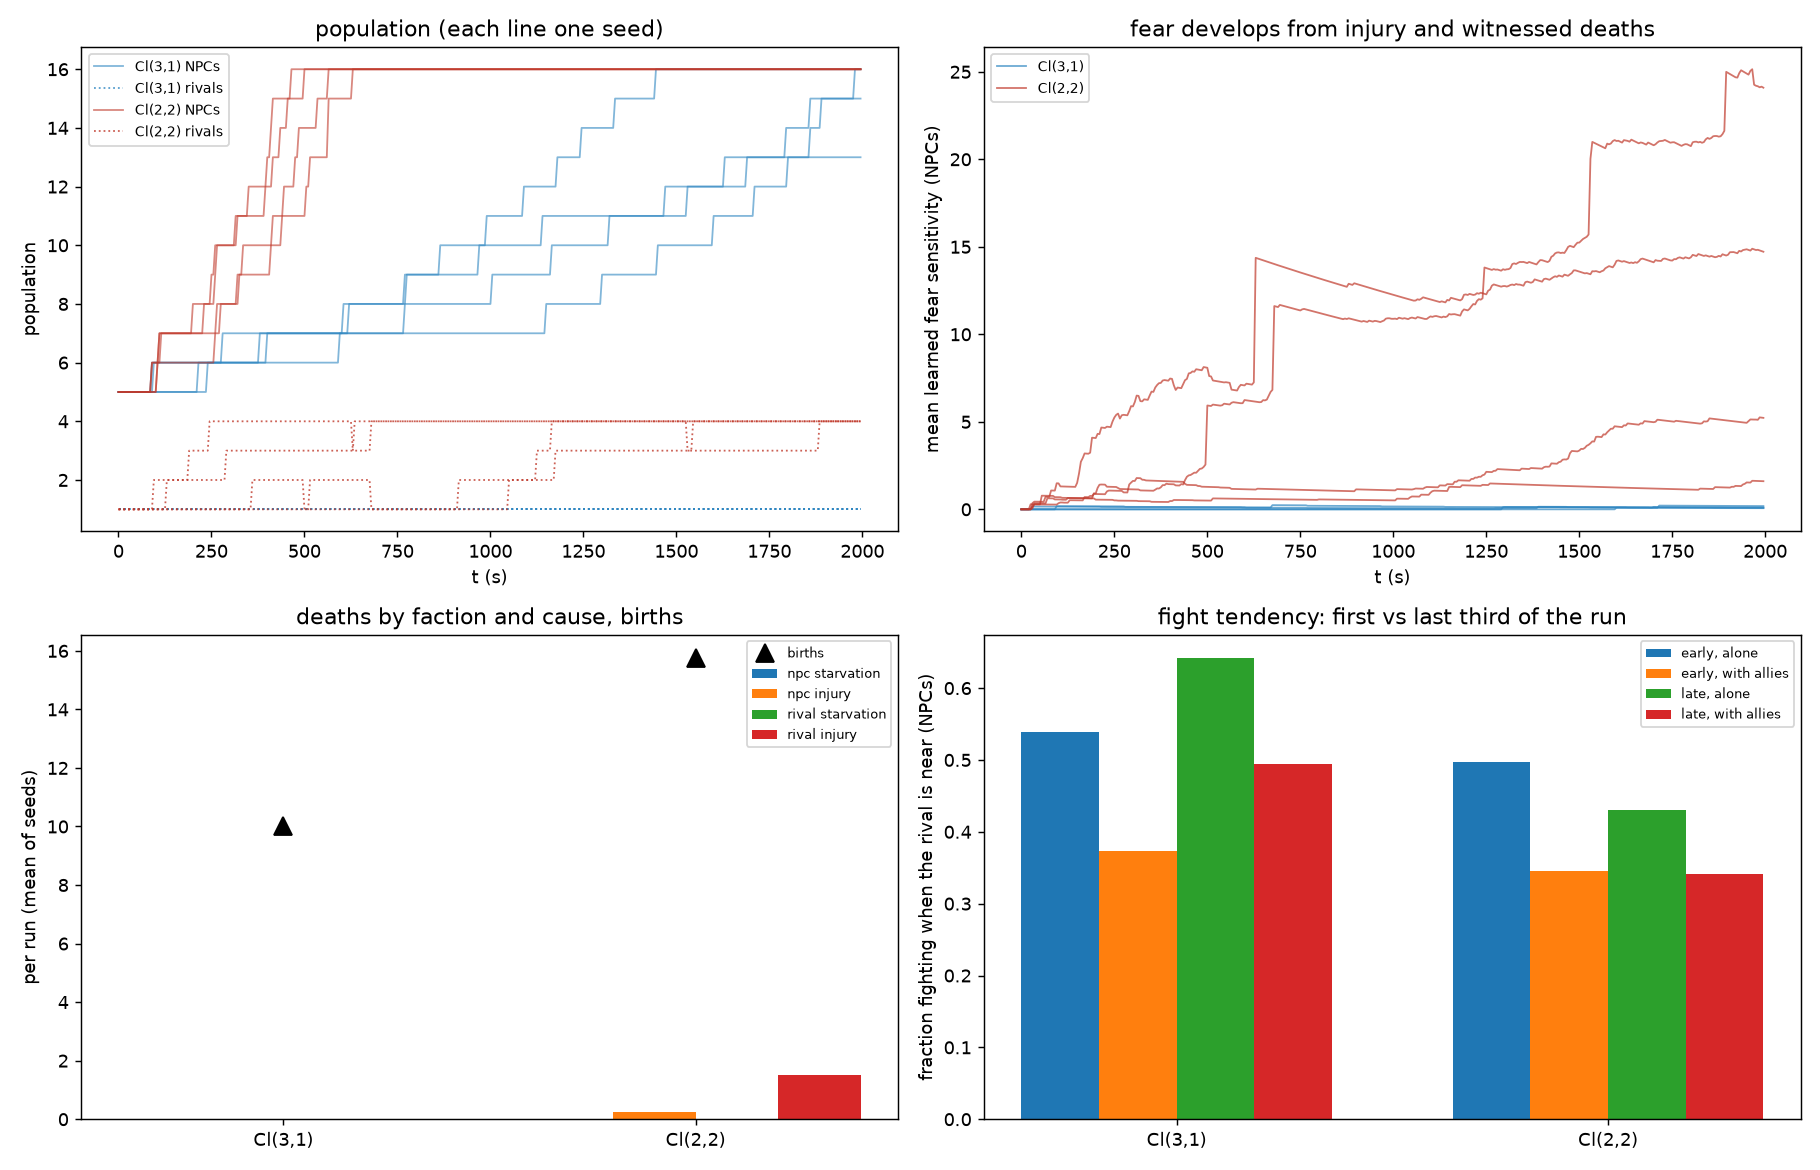
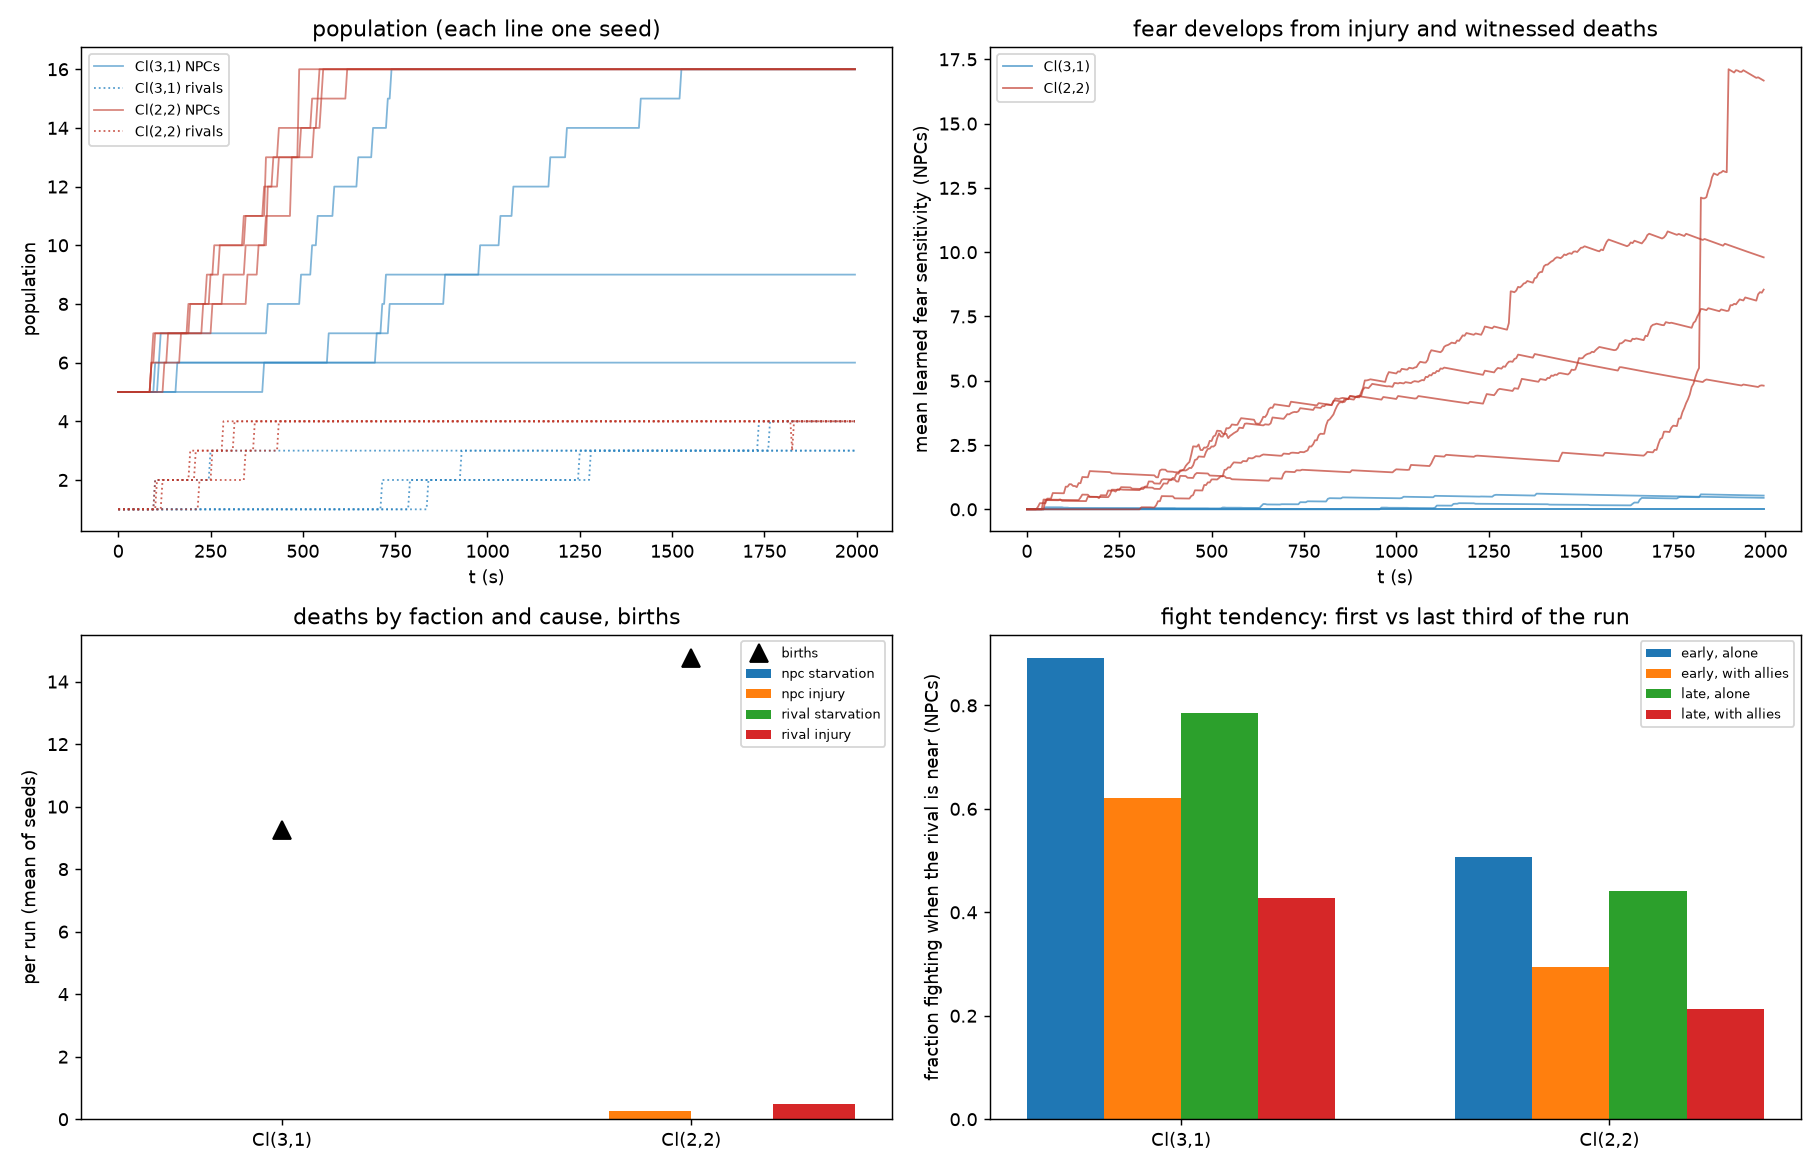
Finite, moving food in the full-life arena
FoodConfig: patches hold a finite stock (5 units), every agent eating there
takes 0.1/s, empty patches vanish and new ones spawn at random places (about
one a minute, at most 3). Agents only know patches they have seen, remember
them, forget them when seen gone, and search when hungry with nothing known.
Food has its own RNG stream. Enabled in life_config (E9 and the arena
viewer, which draws patches sized by stock). E9 re-run.

diff --git a/tests/test_life.py b/tests/test_life.py
@@ -162,3 +162,48 @@ def test_satiety_slows_a_little():
         speeds.append(np.linalg.norm(npc.pos - x0))
     assert speeds[0] > speeds[1] > speeds[2]
     assert np.isclose(speeds[2] / speeds[0], 1.0 - ar.life.satiety_slow, rtol=0.05)
+
+
+def _food_arena(n_npcs=2, **kw):
+    from cliffnpc.config import FoodConfig
+    cfg = ArenaConfig(n_npcs=n_npcs, seed=0, life=LifeConfig(), food_dynamics=FoodConfig(**kw))
+    return Arena(cfg)
+
+
+def test_food_is_depleted_faster_by_more_eaters_and_then_disappears():
+    for n in (1, 3):
+        ar = _food_arena(n_npcs=n, initial_patches=1, spawn_rate=0.0, stock=5.0)
+        p = ar.patches[0]
+        for a in ar.agents:
+            a.pos = p["pos"] + np.array([0.0, 2.0 if a.faction == RIVAL_FACTION else 0.5])
+        ar.agents = [a for a in ar.agents if a.faction == NPC_FACTION]
+        ar._food_step(1.0)
+        assert np.isclose(5.0 - p["stock"], ar.fd.take_rate * n)
+    ar._food_step(100.0)
+    assert not ar.patches and ar.food_events[-1]["what"] == "depleted"
+
+
+def test_new_patches_spawn_elsewhere_up_to_the_maximum():
+    ar = _food_arena(initial_patches=1, spawn_rate=1e6, max_patches=4)
+    first = ar.patches[0]["pos"].copy()
+    for _ in range(10):
+        ar._food_step(0.1)
+    assert len(ar.patches) == 4
+    assert all(not np.allclose(p["pos"], first) for p in ar.patches[1:])
+
+
+def test_agents_only_know_food_they_have_seen_and_forget_vanished_patches():
+    ar = _food_arena(n_npcs=1, initial_patches=1, spawn_rate=0.0)
+    a = next(x for x in ar.agents if x.faction == NPC_FACTION)
+    p = ar.patches[0]
+    a.pos = p["pos"] + np.array([45.0, 0.0])          # out of sight
+    assert ar.percept(a).food_memory is None
+    a.pos = p["pos"] + np.array([10.0, 0.0])          # sees it, remembers it
+    ar.percept(a)
+    a.pos = p["pos"] + np.array([45.0, 0.0])
+    assert ar.percept(a).food_memory is not None
+    ar.patches.clear()                                 # eaten up elsewhere
+    assert ar.percept(a).food_memory is not None       # still believes it is there
+    a.pos = p["pos"] + np.array([10.0, 0.0])          # comes to look: gone
+    ar.percept(a)
+    assert p["id"] not in a.known_food

diff --git a/cliffnpc/arena_viewer.py b/cliffnpc/arena_viewer.py
@@ -84,7 +84,8 @@ class ArenaViewer(Viewer):
         ax.set_xticks([])
         ax.set_yticks([])
         ax.set_title("arena")
-        self.food_art, = ax.plot([], [], "o", color="#e67e22", ms=14, label="food")
+        self.food_sc = A(ax.scatter([], [], s=200, marker="o", color="#e67e22", alpha=0.85,
+                                    label="food (size = stock)"))
         self.home_art, = ax.plot([], [], "s", color="#2c3e50", ms=11, label="NPC home")
         self.lair_art, = ax.plot([], [], "D", color="#7f8c8d", ms=10, label="rival lair")
         self.sensor_art = A(self._Circle((0, 0), 30.0, fill=False, ls=":", color="#95a5a6"))
@@ -170,8 +171,6 @@ class ArenaViewer(Viewer):
 
     def _place_static(self) -> None:
         cfg = self.arena.cfg
-        f = np.array(cfg.food)
-        self.food_art.set_data(f[:, 0], f[:, 1])
         self.home_art.set_data([cfg.home[0]], [cfg.home[1]])
         self.lair_art.set_data([cfg.lair[0]], [cfg.lair[1]])
         self.dirty = True
@@ -247,6 +246,10 @@ class ArenaViewer(Viewer):
         ar = self.arena
         npcs = [a for a in ar.agents if a.faction == "npc"]
         rivals = [a for a in ar.agents if a.faction == "rival"]
+        P = ar.patches
+        self.food_sc.set_offsets(np.array([p["pos"] for p in P]).reshape(-1, 2))
+        self.food_sc.set_sizes([40 + 260 * min(p["stock"] / p["stock0"], 1.0) if np.isfinite(p["stock0"])
+                                else 200 for p in P])
         self._scatter(self.npc_sc, npcs)
         self._scatter(self.rival_sc, rivals)
         recent_d = [d for d in ar.deaths if ar.t - d["t"] < MARK_SECONDS]
@@ -324,7 +327,7 @@ class ArenaViewer(Viewer):
             f"{'  PAUSED' if self.paused else ''}\n"
             f"NPCs {len(npcs):2d}   rivals {len(rivals):2d}   births {len(ar.births)}\n"
             f"deaths: starvation {causes['starvation']}  injury {causes['injury']}\n"
-            f"fights {len(ar.engagements)}")
+            f"fights {len(ar.engagements)}   food patches {len(ar.patches)}")
 
 
 def main(argv=None) -> int:

diff --git a/experiments/e9_life_signature.py b/experiments/e9_life_signature.py
@@ -10,6 +10,8 @@ the reaction, well-fed agents reproduce (NPCs with a partner, the anti-social
 rival alone), children inherit their parents' strongest memories, personality
 frame and part of their fear.  Injury drives flight through a reflex stronger
 than any other channel.  Satiety slightly slows agents (food competition).
+Food is finite and moves: patches run out as they are eaten and new ones appear
+elsewhere; agents only know patches they have seen.
 
 A cubic per-drive saturation law (sat_gain) is on: changing the signature turns
 some designed-bounded rotations into boosts (in Cl(2,2) the foraging channel
@@ -76,6 +78,7 @@ def one(job):
         imprinted=sum(e.get("origin") == "imprinted" and e["what"] in ("stored", "merged") for e in ev),
         pain=float(np.nanmean(np.where(npc_alive, log["pain"], np.nan))),
         hunger=float(np.nanmean(np.where(npc_alive, log["C"][:, :, 0], np.nan))),
+        depleted=sum(e["what"] == "depleted" for e in ar.food_events),
         fight_early=fight_stats(dec, 0, T / 3, 0), fight_late=fight_stats(dec, 2 * T / 3, T, 0),
         rival_fight_early=fight_stats(dec, 0, T / 3, 1), rival_fight_late=fight_stats(dec, 2 * T / 3, T, 1),
     )
@@ -147,6 +150,7 @@ rows = [
     ("solo fight fraction", lambda r: r["solo"] / max(r["engagements"], 1)),
     ("NPC mean pain", lambda r: r["pain"]),
     ("NPC mean hunger coefficient", lambda r: r["hunger"]),
+    ("food patches depleted", lambda r: r["depleted"]),
     ("final NPC fear sensitivity", lambda r: r["fear"][-1]),
     ("recalls: experience", lambda r: r["recalls"].get("experience", 0)),
     ("recalls: imprinted", lambda r: r["recalls"].get("imprinted", 0)),

diff --git a/cliffnpc/arena.py b/cliffnpc/arena.py
@@ -89,9 +89,10 @@ class ArenaConfig:
 
 def life_config(signature=(1.0, 1.0, 1.0, -1.0), seed: int = 0, sat_gain: float = 0.5) -> ArenaConfig:
     """The full-life arena used by E9 and the arena viewer: sequence memory, life
-    (death, birth, inheritance, witnessing, injury reflex), learned fear and the
-    saturation law, with one drive signature for every agent."""
-    cfg = ArenaConfig(seed=seed, ltm=LTMConfig(), life=LifeConfig(), signature=signature)
+    (death, birth, inheritance, witnessing, injury reflex), learned fear, the
+    saturation law and finite moving food, with one drive signature for every agent."""
+    cfg = ArenaConfig(seed=seed, ltm=LTMConfig(), life=LifeConfig(), signature=signature,
+                      food_dynamics=FoodConfig())
     for a in (cfg.npc_affect, cfg.rival_affect):
         a.fear_from_injury, a.fear_from_death, a.fear_decay = 10.0, 10.0, 0.0005
     for c in (cfg.npc_cog, cfg.rival_cog):

diff --git a/cliffnpc/config.py b/cliffnpc/config.py
@@ -148,8 +148,8 @@ class FoodConfig:
     there takes take_rate per second; an empty patch disappears and new patches
     spawn elsewhere at random.  Agents only know patches they have seen."""
     initial_patches: int = 2            # the configured spot plus random ones
-    max_patches: int = 4
-    stock: float = 20.0                 # units per new patch
+    max_patches: int = 3
+    stock: float = 5.0                  # units per new patch (~50 meal-seconds)
     take_rate: float = 0.1              # units per second per eating agent
     spawn_rate: float = 1.0 / 60.0      # per second, while below max_patches
     margin: float = 10.0                # spawn away from the walls
